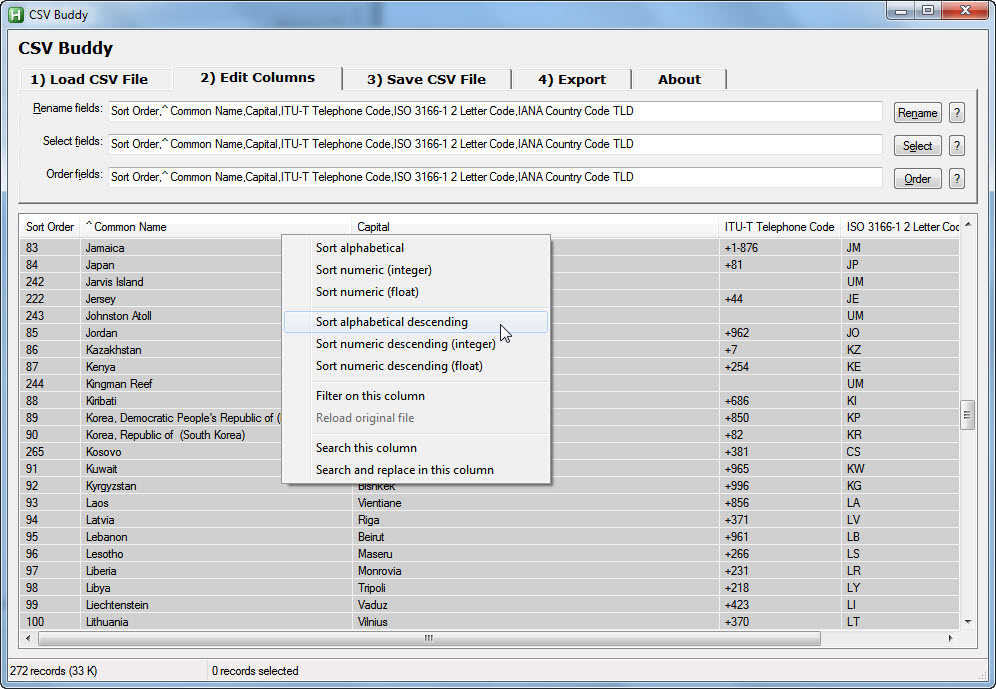
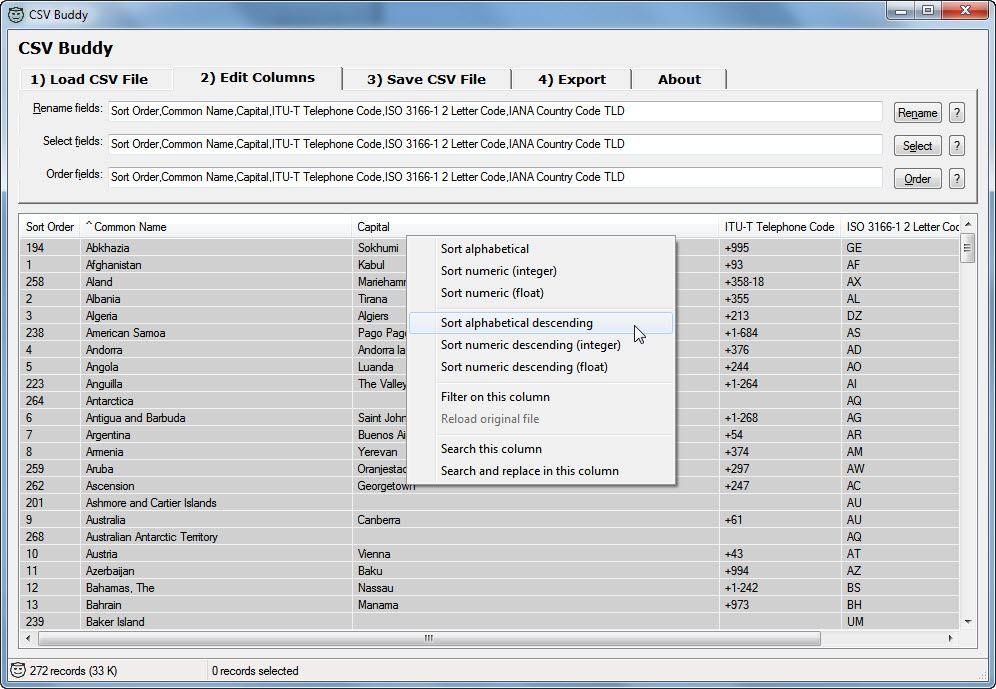
v1.2.2 doc and screen capture update

diff --git a/README.md b/README.md
@@ -1,5 +1,5 @@
 
-# CSV Buddy (v1.2.1) - Read me
+# CSV Buddy (v1.2.2) - Read me
 
 
 CSV Buddy helps you make your CSV files ready to be imported by a variety of software. You can load files with all sort of field delimiters (comma, tad, semi-colon, etc.) and encapsulators (double/single-quotes or any other character). Convert line breaks in data field making your file XL ready. Rename/reorder fields, add or edit records, filter or search, search and replace, save with any delimiters and export to fixed-width, HTML templates or XML formats. Freeware.
@@ -18,6 +18,11 @@ First official release: 2013-11-30
 
 ## History
 
+
+### 2014-03-17 v1.2.2
+
+* Bug fix: after a column sort, fix names errors in column headers
+* Bug fix: by safety, remove sorting column indicator before any action in edit columns tabs
 
 ### 2014-03-09 v1.2.1
 
